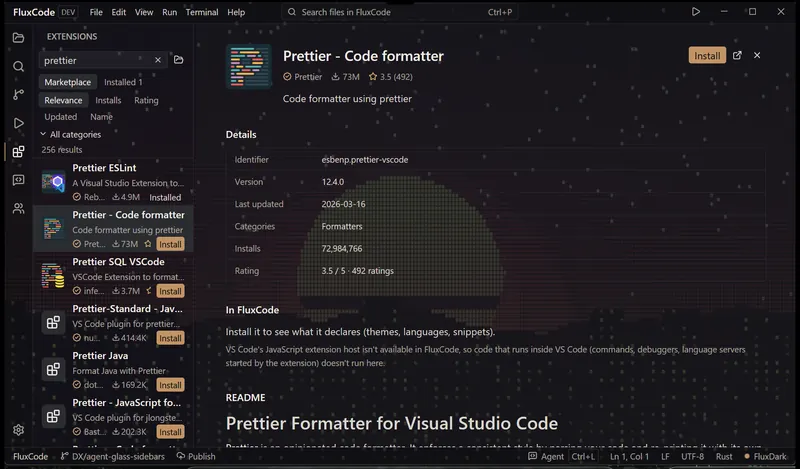
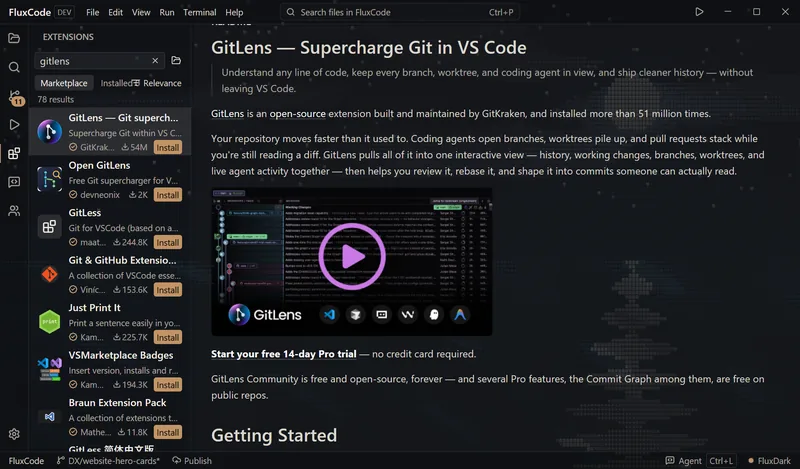
Website: the app as a deck of new screenshots; the sky ends in night
After the flight through the x, the app rises and its screens change as
you scroll, still pinned: each next card slides up over the last, which
sinks back and dims, with its name and a line under it and a progress
mark above. Five fresh screenshots of the current build: the agent full
screen, the token saver, the side bar beside the agent, Extensions with
a README, and Settings as one page.

At the end of the flight the sky dims into the page's background, so the
clouds fade out instead of stopping at the section's edge. The viewer
below shows the same new screenshots for its agent, token saver, side
bar and extensions tabs. Without script or with reduced motion the cards
sit side by side and swipe.

diff --git a/website/index.html b/website/index.html
@@ -314,13 +314,19 @@ section { scroll-margin-top: calc(var(--header-space) + 16px); }
 .fh-strip li + li { border-left: 1px solid var(--glass-line); }
 .fh-strip b { font-size: clamp(1.02rem, 0.8rem + 0.6vw, 1.35rem); font-weight: 600; letter-spacing: -0.02em; }
 .fh-strip span { font-size: 0.9rem; color: #a7a3b8; }
-.fh-screen { margin: 40px auto 0; width: min(1180px, calc(100% - 32px)); }
-.fh-screen img { display: block; width: 100%; height: auto; border-radius: 14px; border: 1px solid rgba(235, 228, 214, 0.16); box-shadow: 0 40px 120px rgba(0, 0, 0, 0.55); }
-.fh-screen figcaption { margin-top: 12px; text-align: center; font-size: 0.85rem; color: #8f8ba2; }
+.fh-deck { margin: 40px auto 0; width: min(1180px, calc(100% - 32px)); }
+.fh-cards { display: flex; gap: 16px; overflow-x: auto; scroll-snap-type: x mandatory; scrollbar-width: none; padding-bottom: 4px; }
+.fh-cards::-webkit-scrollbar { display: none; }
+.fh-card { flex: 0 0 100%; margin: 0; scroll-snap-align: center; }
+.fh-card img { display: block; width: 100%; height: auto; border-radius: 14px; border: 1px solid rgba(235, 228, 214, 0.16); box-shadow: 0 30px 90px rgba(0, 0, 0, 0.5); background: #121218; }
+.fh-card figcaption { display: flex; flex-wrap: wrap; justify-content: center; gap: 4px 10px; margin-top: 12px; text-align: center; font-size: 0.92rem; color: #a7a3b8; }
+.fh-card figcaption b { color: var(--ink); font-weight: 600; }
+.fh-count, .fh-night { display: none; }
+.fh-note { margin: 10px 0 0; text-align: center; font-size: 0.8rem; color: #77738a; }
 
 /* Pinned: a stage as tall as the screen, kept in place while the section scrolls by. It
    starts under the floating header, like the sky did. */
-.fh.on { height: 430svh; margin-top: calc(-1 * var(--header-space)); }
+.fh.on { height: 720svh; margin-top: calc(-1 * var(--header-space)); }
 .fh.on .fh-stage { position: sticky; top: 0; height: 100svh; padding: 0; overflow: hidden; }
 .fh.on .fh-scene { inset: -4%; transform: translate3d(0, calc(var(--p, 0) * -5svh), 0) scale(calc(1.02 + var(--z, 0) * 0.08 + var(--p, 0) * 0.05)); will-change: transform; }
 .fh.on .cloud.far { transform: translate3d(calc(var(--p, 0) * -9vw), calc(var(--p, 0) * 6svh), 0); }
@@ -339,12 +345,27 @@ section { scroll-margin-top: calc(var(--header-space) + 16px); }
 .fh.on .fh-copy { position: absolute; inset: 0; z-index: 3; display: flex; flex-direction: column; justify-content: center; padding-top: 0;
   opacity: var(--co, 0); transform: translate3d(0, var(--cy, 40px), 0) scale(var(--cs, 1)); transform-origin: 0 50%; filter: blur(var(--cb, 0px)); will-change: transform, opacity, filter; }
 .fh.on .fh-strip { position: absolute; left: 50%; bottom: 4svh; margin: 0; z-index: 3; opacity: var(--so, 0); transform: translate3d(-50%, var(--sy, 30px), 0); }
-.fh.on .fh-screen { position: absolute; left: 50%; top: 50%; margin: 0; z-index: 4; width: min(1180px, 90vw);
+/* The deck: the cards share one spot; the script sets each one's place (--d: 0 on top,
+   0..1 still coming up from below, -1..0 sinking back as the next one covers it). */
+.fh.on .fh-deck { position: absolute; left: 50%; top: calc(50% + var(--header-space) / 2); margin: 0; z-index: 4;
+  width: min(1180px, 90vw, calc((100svh - var(--header-space) - 120px) * 1600 / 938));
   transform: translate3d(-50%, calc(-50% + var(--ry, 100svh)), 0) scale(var(--rs, 0.82)); will-change: transform; }
-.fh.on .fh-screen figcaption { opacity: var(--rc, 0); }
+.fh.on .fh-cards { display: block; position: relative; overflow: visible; aspect-ratio: 1600 / 938; padding: 0; }
+.fh.on .fh-card { position: absolute; inset: 0; transform-origin: 50% 0; will-change: transform, opacity; }
+.fh.on .fh-card img { height: 100%; object-fit: cover; box-shadow: 0 -10px 60px rgba(0, 0, 0, 0.35), 0 40px 120px rgba(0, 0, 0, 0.55);
+  filter: brightness(var(--lit, 1)); }
+.fh.on .fh-card figcaption { position: absolute; left: 0; right: 0; top: 100%; margin-top: 14px; opacity: var(--cap, 0); }
+.fh.on .fh-count { display: flex; justify-content: center; gap: 6px; position: absolute; left: 0; right: 0; bottom: 100%; margin: 0 0 14px; opacity: var(--rc, 0); }
+.fh.on .fh-count i { width: 18px; height: 3px; border-radius: 2px; background: rgba(235, 228, 214, 0.22); transition: background-color 0.3s ease, width 0.3s ease; }
+.fh.on .fh-count i.on { width: 30px; background: var(--yellow); }
+.fh.on .fh-note { display: none; }
+/* Night falls at the end of the flight: the sky dims into the page, so the clouds go
+   with it instead of stopping at the section's edge. */
+.fh.on .fh-night { display: block; position: absolute; inset: 0; z-index: 2; pointer-events: none; opacity: var(--e, 0);
+  background: linear-gradient(180deg, rgba(10, 10, 12, 0.55), var(--bg) 70%); }
 
 @media (max-width: 720px) {
-  .fh.on { height: 360svh; }
+  .fh.on { height: 640svh; }
   /* Phones: the claim keeps to the left edge under the header, like the desktop one,
      and the facts strip keeps the bottom, so the two never meet. */
   .fh.on .fh-copy { justify-content: flex-start; padding-top: calc(var(--header-space) + 5svh); }
@@ -360,8 +381,10 @@ section { scroll-margin-top: calc(var(--header-space) + 16px); }
   .fh-strip li:nth-child(even) { border-left: 1px solid var(--glass-line); }
   .fh-strip li:nth-child(n + 3) { border-top: 1px solid var(--glass-line); }
   .fh-strip span { font-size: 0.78rem; }
+  .fh-card { flex-basis: 88%; }
   .fh.on .fh-strip { bottom: 2svh; }
-  .fh.on .fh-screen { width: 94vw; }
+  .fh.on .fh-deck { width: 94vw; }
+  .fh.on .fh-card figcaption { flex-direction: column; gap: 2px; font-size: 0.86rem; }
   .fh-intro .cta-row .btn { width: 100%; max-width: 320px; justify-content: center; }
 }
 @media (max-height: 640px) {
@@ -861,11 +884,38 @@ footer { border-top: 1px solid var(--line); padding: 44px 0 0; color: var(--mute
         <li><b data-i18n="fh.s3">16 MB on disk</b><span data-i18n="fh.s3b">Rust, drawn by the GPU</span></li>
         <li><b data-i18n="fh.s4">AI agents built in</b><span>OpenCode · Claude · Copilot</span></li>
       </ul>
-      <figure class="fh-screen">
-        <img src="img/agent.webp" srcset="img/agent-800.webp 800w, img/agent.webp 1600w" sizes="(max-width: 720px) 94vw, 1180px" width="1600" height="938" decoding="async"
-          data-i18n-attr="alt:fh.screen" alt="FluxCode with the agent filling the window: saved chats, the conversation and the files it changed.">
-        <figcaption data-i18n="fh.caption">A screenshot of the app, like every picture on this page.</figcaption>
-      </figure>
+      <div class="fh-deck" role="group" data-i18n-attr="aria-label:fh.deck" aria-label="What FluxCode looks like">
+        <div class="fh-cards">
+          <figure class="fh-card">
+            <img src="img/ui-agent.webp" srcset="img/ui-agent-800.webp 800w, img/ui-agent.webp 1600w" sizes="(max-width: 720px) 94vw, 1180px" width="1600" height="938" decoding="async"
+              data-i18n-attr="alt:fh.k1a" alt="The agent filling the window over an animated ocean: saved chats on the left, the conversation in the middle, the files it changed on the right.">
+            <figcaption><b data-i18n="fh.k1">AI agent</b> <span data-i18n="fh.k1b">Chats, the conversation and the files it changed, side by side in glass.</span></figcaption>
+          </figure>
+          <figure class="fh-card">
+            <img src="img/ui-saver.webp" srcset="img/ui-saver-800.webp 800w, img/ui-saver.webp 1600w" sizes="(max-width: 720px) 94vw, 1180px" width="1600" height="938" decoding="async" loading="lazy"
+              data-i18n-attr="alt:fh.k2a" alt="The token saver opened over the chat: answer style, lean code, quiet tools and automatic compact.">
+            <figcaption><b data-i18n="fh.k2">Token saver</b> <span data-i18n="fh.k2b">Shorter answers, quieter tools, and a compact before the context fills up.</span></figcaption>
+          </figure>
+          <figure class="fh-card">
+            <img src="img/ui-sidebar.webp" srcset="img/ui-sidebar-800.webp 800w, img/ui-sidebar.webp 1600w" sizes="(max-width: 720px) 94vw, 1180px" width="1600" height="938" decoding="async" loading="lazy"
+              data-i18n-attr="alt:fh.k3a" alt="The agent in full screen with the Explorer open beside it.">
+            <figcaption><b data-i18n="fh.k3">Side bars</b> <span data-i18n="fh.k3b">The Explorer next to the agent, every column resized with the mouse.</span></figcaption>
+          </figure>
+          <figure class="fh-card">
+            <img src="img/ui-extensions.webp" srcset="img/ui-extensions-800.webp 800w, img/ui-extensions.webp 1600w" sizes="(max-width: 720px) 94vw, 1180px" width="1600" height="938" decoding="async" loading="lazy"
+              data-i18n-attr="alt:fh.k4a" alt="The Extensions view searching the VS Code Marketplace for gitlens, with GitLens open: its details and its README, pictures included.">
+            <figcaption><b data-i18n="fh.k4">Extensions</b> <span data-i18n="fh.k4b">The VS Code Marketplace inside FluxCode, each README with its pictures.</span></figcaption>
+          </figure>
+          <figure class="fh-card">
+            <img src="img/ui-settings.webp" srcset="img/ui-settings-800.webp 800w, img/ui-settings.webp 1600w" sizes="(max-width: 720px) 94vw, 1180px" width="1600" height="938" decoding="async" loading="lazy"
+              data-i18n-attr="alt:fh.k5a" alt="Settings as one page: the sections listed on the left; on the right the theme, the interface language in five choices, liquid glass and the animated backgrounds.">
+            <figcaption><b data-i18n="fh.k5">Settings</b> <span data-i18n="fh.k5b">One page from Appearance to About: liquid glass, animated backgrounds and four languages.</span></figcaption>
+          </figure>
+        </div>
+        <p class="fh-count" aria-hidden="true"><i></i><i></i><i></i><i></i><i></i></p>
+        <p class="fh-note" data-i18n="fh.caption">A screenshot of the app, like every picture on this page.</p>
+      </div>
+      <div class="fh-night" aria-hidden="true"></div>
     </div>
   </section>
 
@@ -1174,6 +1224,22 @@ footer { border-top: 1px solid var(--line); padding: 44px 0 0; color: var(--mute
     "fh.s4": "Agen AI bawaan",
     "fh.screen": "FluxCode dengan agen memenuhi jendela: daftar chat, percakapan, dan file yang diubahnya.",
     "fh.caption": "Tangkapan layar aplikasinya, seperti semua gambar di halaman ini.",
+    "fh.deck": "Tampilan FluxCode",
+    "fh.k1": "Agen AI",
+    "fh.k1b": "Chat, percakapan, dan file yang diubahnya, berdampingan di atas kaca.",
+    "fh.k1a": "Agen memenuhi jendela di atas latar laut beranimasi: chat tersimpan di kiri, percakapan di tengah, file yang diubahnya di kanan.",
+    "fh.k2": "Hemat token",
+    "fh.k2b": "Jawaban lebih ringkas, tool lebih senyap, dan compact sebelum konteks penuh.",
+    "fh.k2a": "Panel hemat token terbuka di atas chat: gaya jawaban, kode ringkas, tool senyap, dan compact otomatis.",
+    "fh.k3": "Side bar",
+    "fh.k3b": "Explorer di samping agen, tiap kolom bisa digeser dengan mouse.",
+    "fh.k3a": "Agen dalam layar penuh dengan Explorer terbuka di sampingnya.",
+    "fh.k4": "Ekstensi",
+    "fh.k4b": "VS Code Marketplace di dalam FluxCode, tiap README lengkap dengan gambarnya.",
+    "fh.k4a": "Tampilan Ekstensi mencari gitlens di VS Code Marketplace, dengan GitLens terbuka: detail dan README-nya, lengkap dengan gambar.",
+    "fh.k5": "Pengaturan",
+    "fh.k5b": "Satu halaman dari Tampilan sampai Tentang: liquid glass, latar animasi, dan empat bahasa.",
+    "fh.k5a": "Pengaturan dalam satu halaman: daftar bagian di kiri; di kanan tema, bahasa antarmuka, liquid glass, dan latar animasi.",
     "release.released": "dirilis",
     "release.other": "Sistem lain",
     "viewer.label": "Tangkapan layar FluxCode",
@@ -1893,8 +1959,8 @@ footer { border-top: 1px solid var(--line); padding: 44px 0 0; color: var(--mute
     },
     "token-saver": {
       key: null,
-      en: { cap: "The token saver asks for shorter answers, diffs and quieter tools.", alt: "The token saver panel over the chat: Caveman on at the Full level, Lean code off, Quiet tools on, about 36 percent fewer output tokens." },
-      id: { cap: "Hemat token meminta jawaban lebih pendek, diff, dan tool seperlunya.", alt: "Panel hemat token di atas chat: Caveman aktif di level Full, Lean code mati, Quiet tools aktif, sekitar 36 persen lebih sedikit token keluaran." }
+      en: { cap: "The token saver: shorter answers, diffs, quieter tools, and a compact before the context fills up.", alt: "The token saver over the chat: Short answers, Lean code and Quiet tools as switches, and Auto compact on at 70 percent of the context." },
+      id: { cap: "Hemat token: jawaban lebih pendek, diff, tool seperlunya, dan compact sebelum konteks penuh.", alt: "Hemat token di atas chat: Short answers, Lean code, dan Quiet tools sebagai sakelar, dan Auto compact aktif di 70 persen konteks." }
     },
     "usage-limit": {
       key: null,
@@ -1902,14 +1968,14 @@ footer { border-top: 1px solid var(--line); padding: 44px 0 0; color: var(--mute
       id: { cap: "Limit memberi tahu kapan reset, dan pesannya bisa lanjut sendiri.", alt: "Banner di atas kotak pesan: Usage limit reached, reset sekitar 2 jam lagi, dengan centang Resume at reset dan tombol Continue now." }
     },
     "side-bars": {
-      key: "Ctrl+Shift+F",
-      en: { cap: "Any view in either side bar. Find in files searches as you type.", k: " finds in files", alt: "Search in the right side bar with the Explorer on the left: typing right_view lists 23 results in 4 files, each match tinted." },
-      id: { cap: "View mana pun di side bar kiri atau kanan. Find in files mencari sambil mengetik.", k: " mencari di berkas", alt: "Search di side bar kanan dengan Explorer di kiri: mengetik right_view menampilkan 23 hasil di 4 berkas, tiap kecocokan diberi warna." }
+      key: "Ctrl+B",
+      en: { cap: "The side bar opens next to the agent in full screen; every column resizes with the mouse.", k: " shows or hides the side bar", alt: "The agent in full screen with the Explorer open beside it: the project's files, the saved chats, the conversation and the files it changed." },
+      id: { cap: "Side bar terbuka di samping agen dalam layar penuh; tiap kolom bisa digeser dengan mouse.", k: " menampilkan atau menyembunyikan side bar", alt: "Agen dalam layar penuh dengan Explorer terbuka di sampingnya: berkas proyek, chat tersimpan, percakapan, dan berkas yang diubahnya." }
     },
     "extensions": {
       key: "Ctrl+Shift+X",
-      en: { cap: "The whole VS Code Marketplace, searched as you type, installed from the list.", k: " opens Extensions", alt: "The Extensions view searching the VS Code Marketplace for prettier: 256 results with installs, ratings and Install buttons, and Prettier's page with its details." },
-      id: { cap: "Seluruh VS Code Marketplace, dicari sambil mengetik, dipasang dari daftarnya.", k: " membuka Extensions", alt: "Tampilan Extensions mencari prettier di VS Code Marketplace: 256 hasil dengan jumlah pasang, rating, dan tombol Install, serta halaman Prettier beserta detailnya." }
+      en: { cap: "The whole VS Code Marketplace, searched as you type, installed from the list.", k: " opens Extensions", alt: "The Extensions view searching the VS Code Marketplace for gitlens: 78 results with installs and Install buttons, and GitLens' page with its README and pictures." },
+      id: { cap: "Seluruh VS Code Marketplace, dicari sambil mengetik, dipasang dari daftarnya.", k: " membuka Extensions", alt: "Tampilan Extensions mencari gitlens di VS Code Marketplace: 78 hasil dengan jumlah pasang dan tombol Install, serta halaman GitLens dengan README dan gambarnya." }
     },
     "backgrounds": {
       key: null,
@@ -2096,10 +2162,13 @@ footer { border-top: 1px solid var(--line); padding: 44px 0 0; color: var(--mute
   /* ---------- The flight (hero) ---------- */
   // The stage is pinned for the section's height; p (0..1) is how far through it the
   // page is, eased toward the scroll so the motion stays soft with a wheel.
-  //   0.00-0.32  zoom through the x of the wordmark (scale 1 + z^3 * 60), the dark
+  //   0.00-0.20  zoom through the x of the wordmark (scale 1 + z^3 * 60), the dark
   //              outside fades from z 0.55, so the sky fills the screen
-  //   0.30-0.40  the claim comes in; 0.56-0.68 it leaves (rises, shrinks, blurs)
-  //   0.60-0.92  the app rises from below and settles in the middle
+  //   0.19-0.25  the claim comes in; 0.33-0.40 it leaves (rises, shrinks, blurs)
+  //   0.37-0.50  the app rises from below and settles in the middle
+  //   0.52-0.90  the cards change: each next one slides up over the last, which sinks
+  //              back and dims; each one holds for a while before the next comes
+  //   0.88-1.00  night falls: the sky dims into the page's own background
   // The sky moves the whole way: clouds rise and part, the stars sink.
   function initFlight() {
     var sec = $(".fh");
@@ -2192,7 +2261,7 @@ footer { border-top: 1px solid var(--line); padding: 44px 0 0; color: var(--mute
       shown += (target - shown) * 0.16;
       if (Math.abs(target - shown) < 0.0004) shown = target; else queue();
       var p = shown;
-      var z = clamp(p / 0.32);
+      var z = clamp(p / 0.2);
       var s = 1 + Math.pow(z, 3) * 60;
       // The camera drifts as it dives: the crossing of the x slides to the middle of the
       // screen, so the flight ends centred whatever the word's width.
@@ -2204,12 +2273,14 @@ footer { border-top: 1px solid var(--line); padding: 44px 0 0; color: var(--mute
       var mix = 1 - ease(clamp((z - 0.55) / 0.4));
       dim.style.opacity = mix.toFixed(3);
       edge.style.opacity = (mix * (1 - z * 0.8)).toFixed(3);
-      var h = ease(clamp((p - 0.3) / 0.1)), hx = ease(clamp((p - 0.56) / 0.12)), q = ease(clamp((p - 0.6) / 0.32));
+      var h = ease(clamp((p - 0.19) / 0.06)), hx = ease(clamp((p - 0.33) / 0.07)), q = ease(clamp((p - 0.37) / 0.13));
       set(sec, "--p", p.toFixed(4));
       set(sec, "--z", z.toFixed(4));
       set(sec, "--q", q.toFixed(4));
-      set(sec, "--io", clamp(1 - p * 10).toFixed(3));
-      set(sec, "--iy", (-p * 12 * vh / 100).toFixed(1) + "px");
+      set(sec, "--io", clamp(1 - p * 16).toFixed(3));
+      set(sec, "--iy", (-p * 20 * vh / 100).toFixed(1) + "px");
+      set(sec, "--e", ease(clamp((p - 0.88) / 0.12)).toFixed(3));
+      deal(p, vh);
       set(sec, "--co", Math.max(0, h * (1 - hx * 1.4)).toFixed(3));
       set(sec, "--cy", ((1 - h) * 40 - hx * 0.24 * vh).toFixed(1) + "px");
       set(sec, "--cs", (1 - hx * 0.14).toFixed(4));
@@ -2219,6 +2290,32 @@ footer { border-top: 1px solid var(--line); padding: 44px 0 0; color: var(--mute
       set(sec, "--ry", ((1 - q) * 0.9 * vh).toFixed(1) + "px");
       set(sec, "--rs", (0.82 + q * 0.18).toFixed(4));
       set(sec, "--rc", clamp((q - 0.85) / 0.15).toFixed(3));
+    }
+    // Where the deck is: k runs 0..n-1 between 0.52 and 0.90; each step holds still for
+    // its first and last quarter, so every card is read before the next comes.
+    var cards = $all(".fh-card"), ticks = $all(".fh-count i"), dealt = -1;
+    function deal(p, vh) {
+      var n = cards.length;
+      if (!n) return;
+      var t = clamp((p - 0.52) / 0.38) * (n - 1), i0 = Math.min(n - 2, Math.floor(t));
+      var k = n < 2 ? 0 : i0 + ease(clamp((t - i0 - 0.25) / 0.5));
+      cards.forEach(function (c, i) {
+        var d = i - k, y = 0, sc = 1, op = 1, lit = 1, cap = 0;
+        if (d > 0) { y = Math.min(d, 1.2) * vh * 0.9; cap = 0; }
+        else { sc = 1 + Math.max(d, -2) * 0.06; y = Math.max(d, -2) * vh * 0.035; lit = 1 + Math.max(d, -1.5) * 0.4; op = clamp(2 + d); }
+        if (d > -0.5 && d < 0.5) cap = 1 - Math.abs(d) * 2;
+        c.style.transform = "translate3d(0," + y.toFixed(1) + "px,0) scale(" + sc.toFixed(4) + ")";
+        c.style.opacity = op.toFixed(3);
+        c.style.zIndex = String(10 + i);
+        c.style.visibility = d > 1.15 || d < -2 ? "hidden" : "visible";
+        c.style.setProperty("--lit", lit.toFixed(3));
+        c.style.setProperty("--cap", cap.toFixed(3));
+      });
+      var on = Math.round(k);
+      if (on !== dealt) {
+        dealt = on;
+        ticks.forEach(function (t, i) { t.classList.toggle("on", i === on); });
+      }
     }
     function queue() { if (!raf) raf = requestAnimationFrame(frame); }
     layout();
